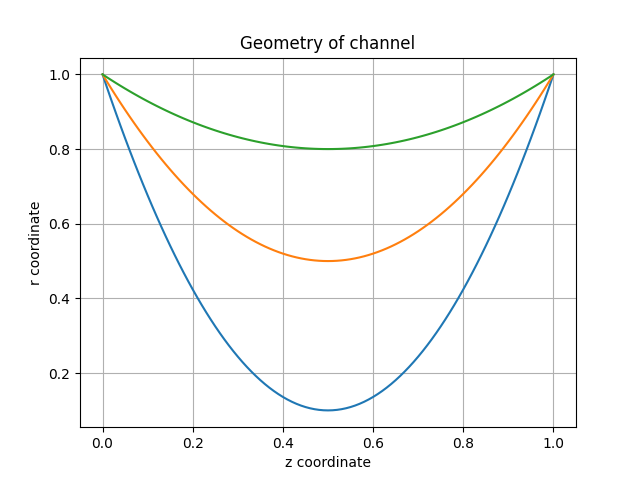
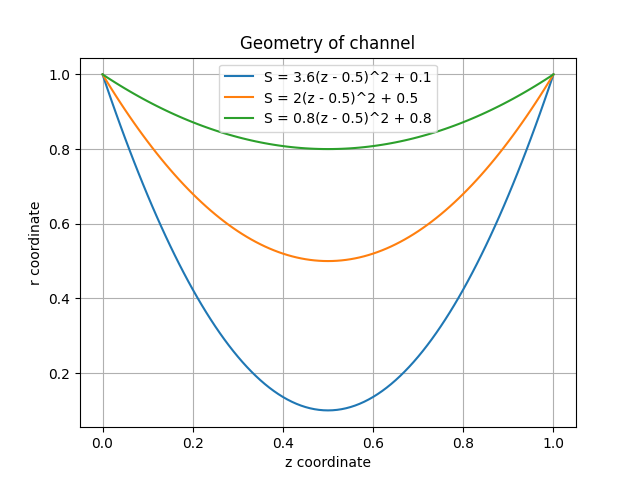
update legend in geometry

Changed region(s): [[0.3438, 0.125, 0.6875, 0.2812]]

diff --git a/08-analysis of results/main.py b/08-analysis of results/main.py
@@ -281,7 +281,7 @@ for i in range(1, I_max_main + 1):
 
 # enter the time layer for which you want to display the values
 N = N_max_main
-
+'''
 # animation of the establishment of a stationary regime of plasma flow in the channel
 
 algorithm(I_max_main, N_max_main, k_main, gamma_main, beta_main, mu_0_main, rho_0_main, v_0_main, a_main, b_main)
@@ -358,7 +358,7 @@ for n in range(0, N_max_main + 1, 5):
 ani = animation.ArtistAnimation(fig, images, interval=1, repeat_delay=100)
 ani.save("01 - establishment of strength.gif", writer='pillow')
 
-'''
+
 # checking that the velocities intersect at the center
 
 plt.title('Alfven and fast magnetosonic velocity')
@@ -377,7 +377,7 @@ plt.plot(x_lst, y_lst, label='fast magnetosonic velocity')
 plt.grid()
 plt.legend()
 plt.show()
-
+'''
 # geometry of channel
 
 plt.title('Geometry of channel')
@@ -397,8 +397,9 @@ for i in range(I_max_main + 1):
 plt.plot(x_lst, y_lst, label='S = 0.8(z - 0.5)^2 + 0.8')
 
 plt.grid()
+plt.legend()
 plt.show()
-
+'''
 # FOR VARIATION OF BETA
 
 # for rho
